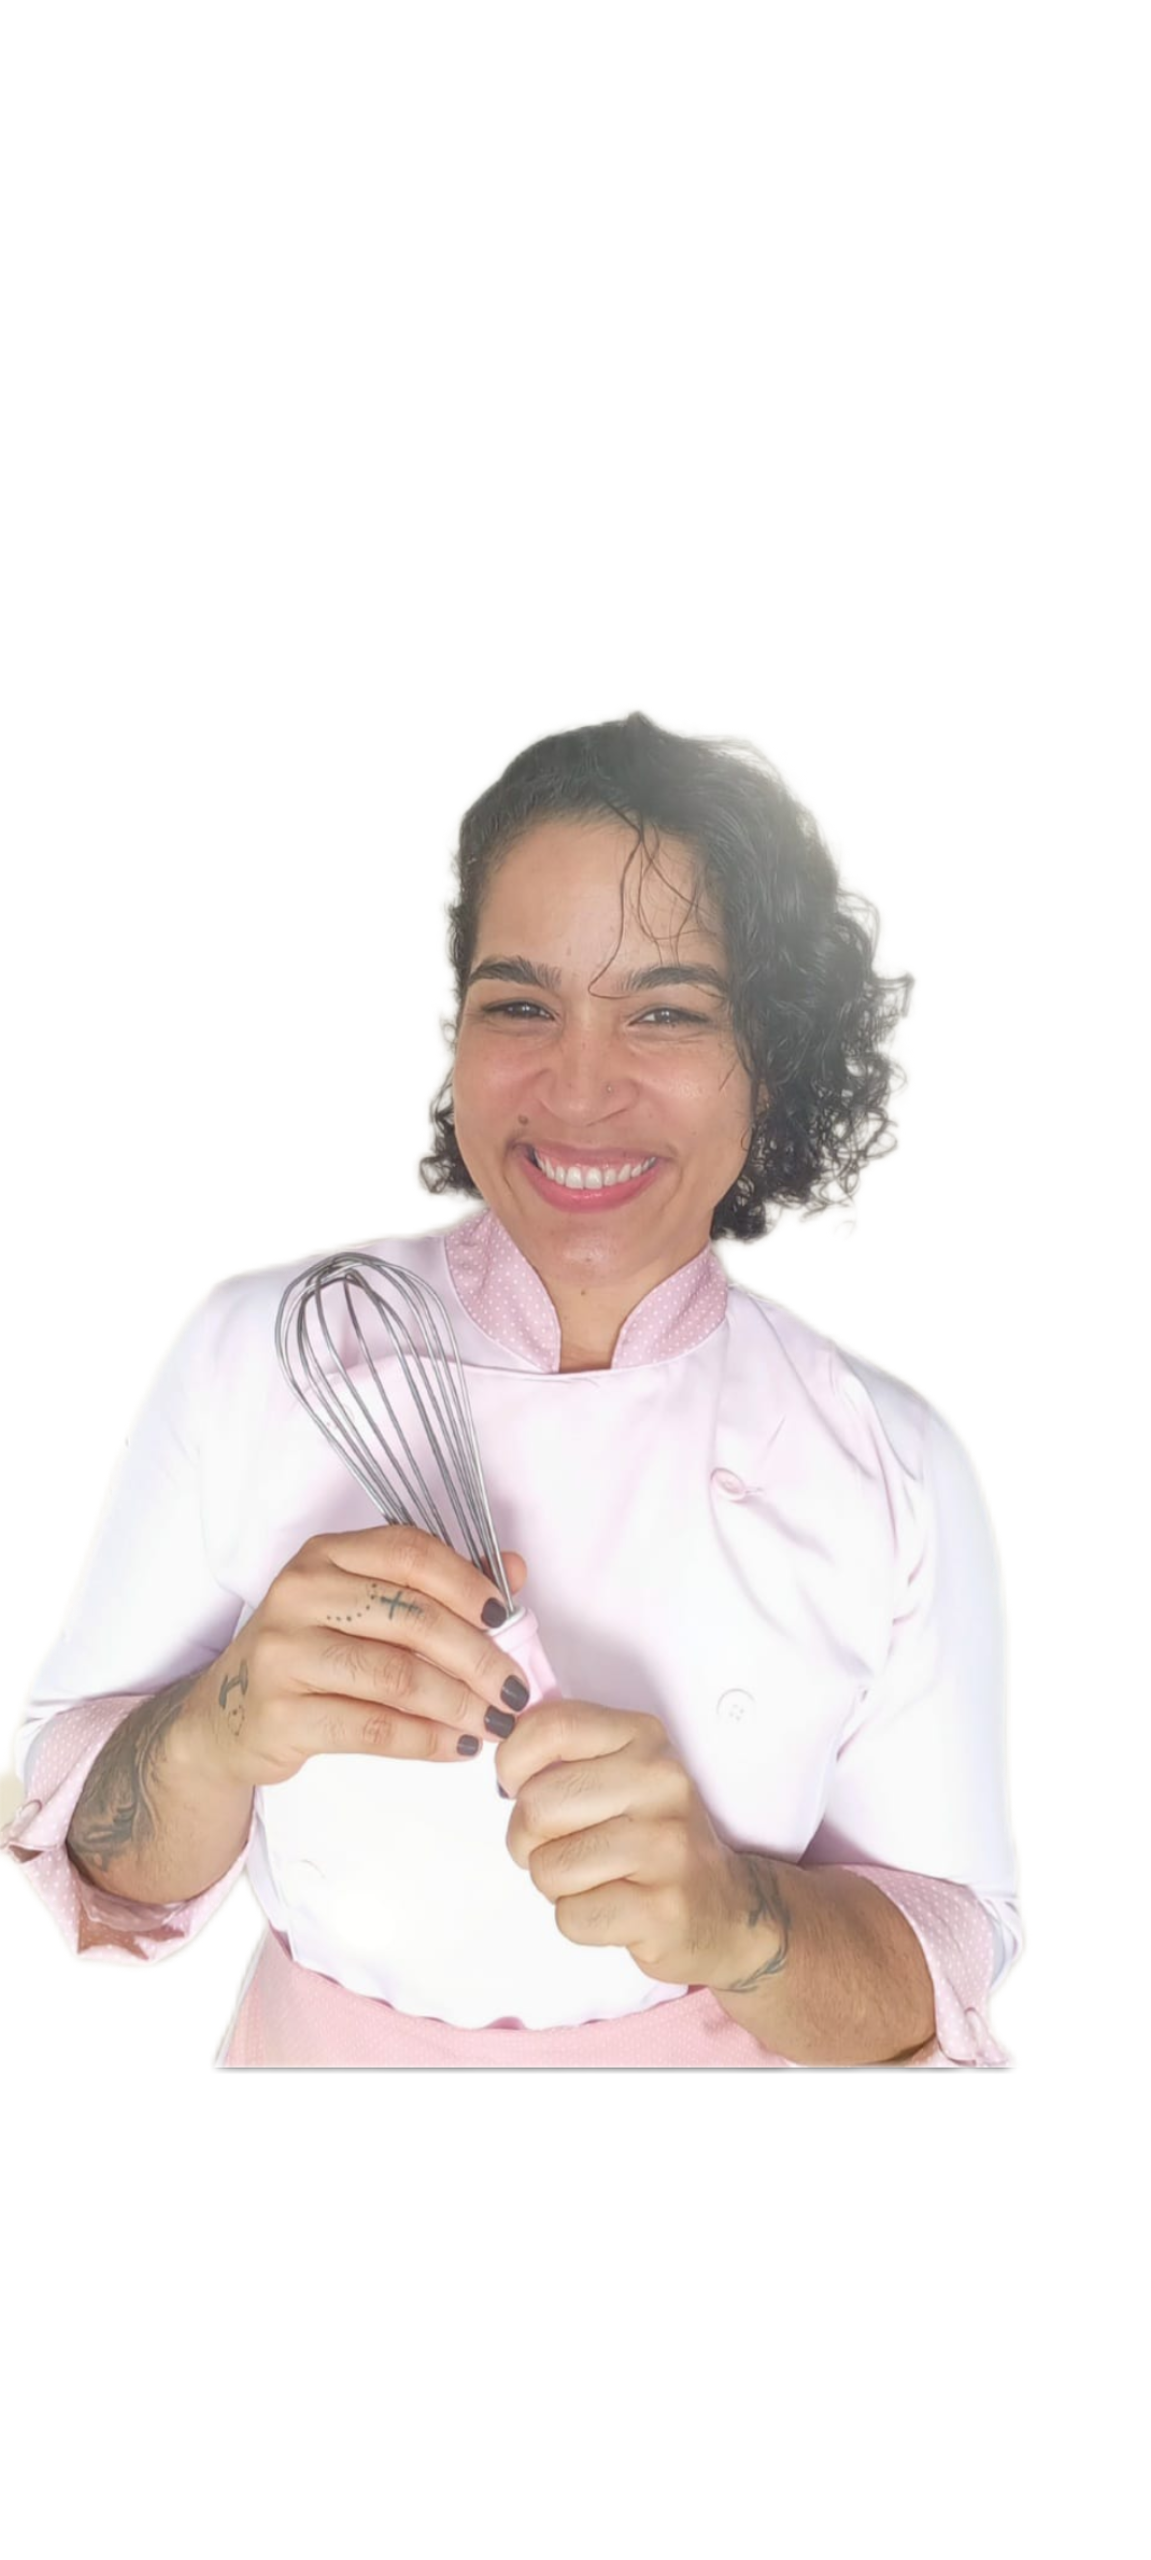
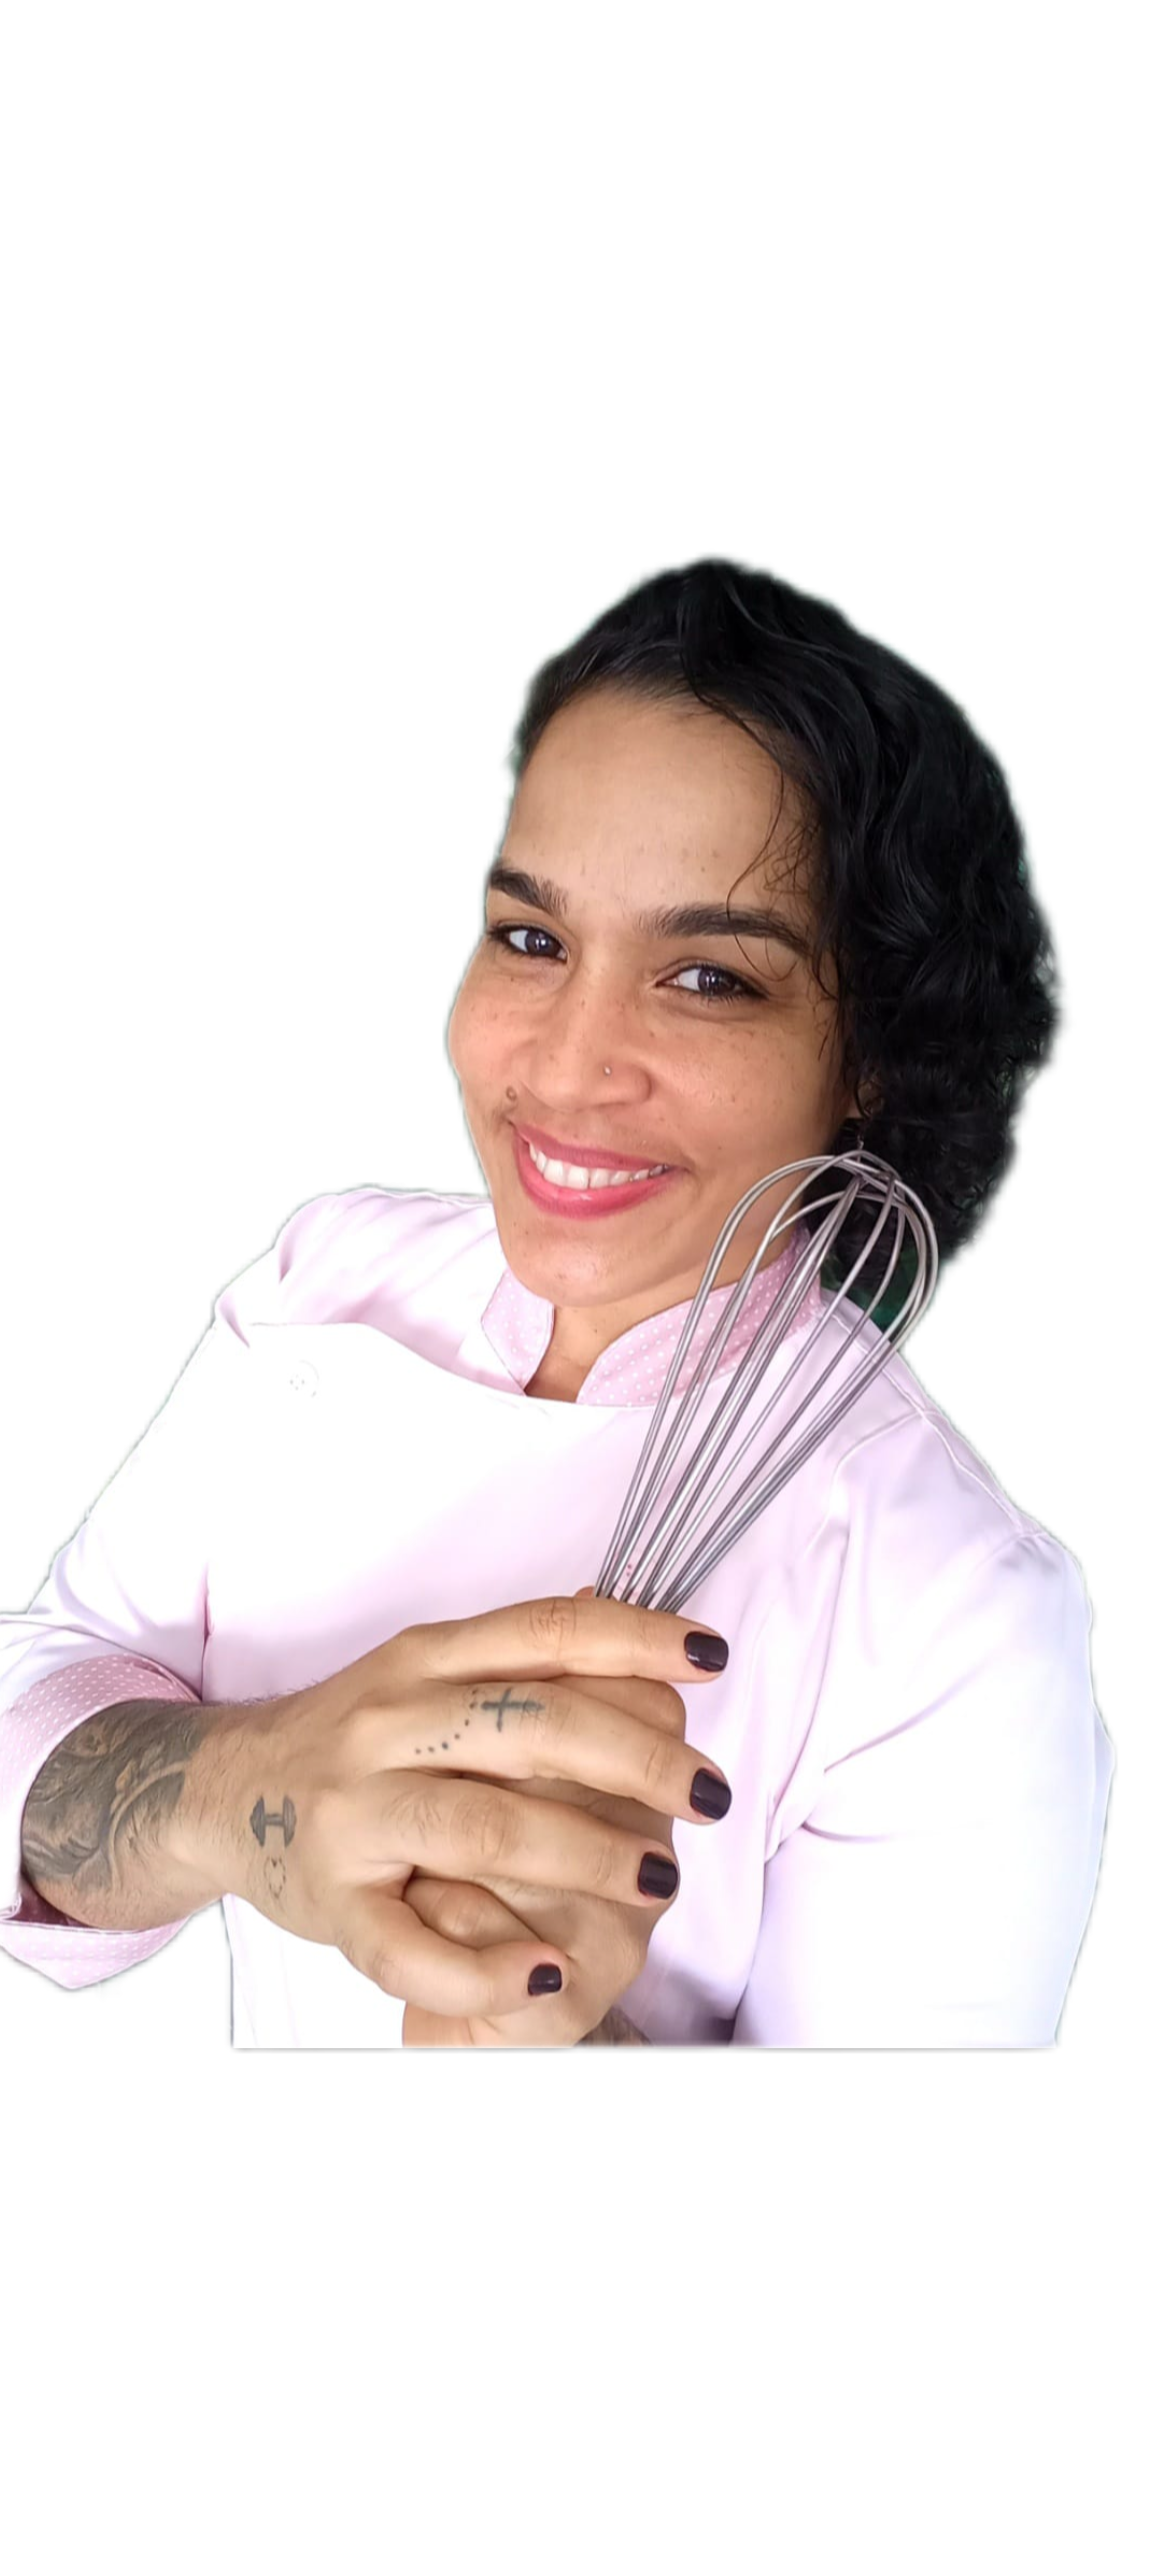
feat: registrar pedidos locais e atualizar imagem da confeiteira

Changed region(s): [[0.0, 0.2188, 0.9427, 0.8125], [0.9427, 0.6562, 0.9731, 0.7188]]

diff --git a/app/page.tsx b/app/page.tsx
@@ -5,7 +5,6 @@ import Image from 'next/image';
 import {
   ArrowRight,
   CakeSlice,
-  Check,
   Coffee,
   LockKeyhole,
   Minus,
@@ -39,6 +38,16 @@ const money = (value: number) =>
   value.toLocaleString('pt-BR', { style: 'currency', currency: 'BRL' });
 const publicBasePath = process.env.NEXT_PUBLIC_BASE_PATH ?? '';
 const LOCAL_CONTENT_KEY = 'hora-cafe-content-v1';
+const LOCAL_ORDERS_KEY = 'hora-cafe-orders-v1';
+type LocalOrder = {
+  id: string;
+  name: string;
+  deliveryDate: string;
+  items: CartItem[];
+  total: number;
+  status: 'pending' | 'delivered';
+  createdAt: string;
+};
 const publicAsset = (source: string) =>
   source.startsWith('/') ? `${publicBasePath}${source}` : source;
 
@@ -278,10 +287,14 @@ function Admin({
     [password, setPassword] = useState(''),
     [error, setError] = useState(''),
     [saved, setSaved] = useState(false),
+    [orders, setOrders] = useState<LocalOrder[]>([]),
     [draft, setDraft] = useState(content),
     [selected, setSelected] = useState(0),
     [saving, setSaving] = useState(false);
   useEffect(() => setDraft(content), [content]);
+  useEffect(() => {
+    try { setOrders(JSON.parse(localStorage.getItem(LOCAL_ORDERS_KEY) ?? '[]')); } catch { setOrders([]); }
+  }, []);
   const c = draft.categories[selected];
   const login = (event: React.FormEvent) => {
     event.preventDefault();
@@ -394,6 +407,17 @@ function Admin({
             />
           </label>
         </div>
+      </section>
+      <section className="admin-orders">
+        <div className="editor-heading"><ShoppingBag /><div><h1>Pedidos</h1><p>Resumo local dos pedidos enviados pelo WhatsApp.</p></div></div>
+        <div className="orders-summary"><strong>{orders.filter((order) => order.status === 'pending').length} pendentes</strong><strong>{money(orders.reduce((sum, order) => sum + order.total, 0))} em pedidos</strong></div>
+        {orders.length === 0 ? <p className="admin-muted">Nenhum pedido registrado neste navegador.</p> : orders.map((order) => (
+          <article className="admin-order" key={order.id}>
+            <div><strong>{order.name}</strong><span>Entrega: {order.deliveryDate.split('-').reverse().join('/')}</span></div>
+            <p>{order.items.map((item) => `${item.quantity}x ${item.flavor}`).join(' · ')}</p>
+            <div><b>{money(order.total)}</b><button onClick={() => { const next = orders.map((item) => item.id === order.id ? { ...item, status: 'delivered' as const } : item); setOrders(next); localStorage.setItem(LOCAL_ORDERS_KEY, JSON.stringify(next)); }}>{order.status === 'pending' ? 'Marcar como entregue' : 'Pedido realizado'}</button></div>
+          </article>
+        ))}
       </section>
       <div className="admin-layout">
         <aside>
@@ -586,6 +610,8 @@ export function Storefront() {
     [cart, setCart] = useState<CartItem[]>([]),
     [cartOpen, setCartOpen] = useState(false),
     [cartPulse, setCartPulse] = useState(false),
+    [customerName, setCustomerName] = useState(''),
+    [deliveryDate, setDeliveryDate] = useState(''),
     [admin, setAdmin] = useState(false);
   useEffect(() => {
     setAdmin(new URLSearchParams(window.location.search).has('admin'));
@@ -627,9 +653,28 @@ export function Storefront() {
   };
   const order = useMemo(
     () =>
-      `https://wa.me/71987698100?text=${encodeURIComponent(`Olá! Gostaria de pedir:\n\n${cart.map((x) => `• ${x.quantity}x ${x.category} — ${x.flavor} (${x.size}) — ${money(x.price * x.quantity)}`).join('\n')}\n\n*Total: ${money(total)}*`)}`,
-    [cart, total],
+      `https://wa.me/71987698100?text=${encodeURIComponent(`Olá, Café com Bolo! Eu quero solicitar:\n\n${cart.map((x) => `- ${x.quantity} - ${x.flavor} (${x.size})`).join('\n')}\n- Dia: ${deliveryDate ? deliveryDate.split('-').reverse().join('/') : ''}\n- Nome: ${customerName}\n\nTotal: ${money(total)}`)}`,
+    [cart, total, customerName, deliveryDate],
   );
+  const orderReady = cart.length > 0 && customerName.trim().length > 1 && Boolean(deliveryDate);
+  const confirmOrder = () => {
+    if (!orderReady) return;
+    try {
+      const record: LocalOrder = {
+        id: `pedido-${Date.now()}`,
+        name: customerName.trim(),
+        deliveryDate,
+        items: cart,
+        total,
+        status: 'pending',
+        createdAt: new Date().toISOString(),
+      };
+      const previous = JSON.parse(localStorage.getItem(LOCAL_ORDERS_KEY) ?? '[]') as LocalOrder[];
+      localStorage.setItem(LOCAL_ORDERS_KEY, JSON.stringify([...previous, record]));
+    } catch {
+      // O WhatsApp continua sendo aberto mesmo se o armazenamento local estiver indisponível.
+    }
+  };
   if (admin)
     return (
       <Admin
@@ -669,7 +714,15 @@ export function Storefront() {
               <h3>
                 Total <strong>{money(total)}</strong>
               </h3>
-              <a href={order} target="_blank" rel="noreferrer">
+              <label className="order-field">
+                Nome para o pedido
+                <input value={customerName} onChange={(event) => setCustomerName(event.target.value)} placeholder="Seu nome" />
+              </label>
+              <label className="order-field">
+                Data de entrega
+                <input type="date" min={new Date().toISOString().slice(0, 10)} value={deliveryDate} onChange={(event) => setDeliveryDate(event.target.value)} />
+              </label>
+              <a className={!orderReady ? 'is-disabled' : ''} href={orderReady ? order : '#'} target="_blank" rel="noreferrer" onClick={(event) => { if (!orderReady) event.preventDefault(); else confirmOrder(); }}>
                 Confirmar pelo WhatsApp <ArrowRight />
               </a>
             </>

diff --git a/app/globals.css b/app/globals.css
@@ -1578,6 +1578,16 @@ footer {
 }
 .quick-cart > a svg { width: 17px; }
 .quick-cart > p { color: #846a62; }
+.quick-cart > a.is-disabled { opacity: 0.5; cursor: not-allowed; }
+.order-field { display: flex; flex-direction: column; gap: 6px; margin: 12px 0; color: #6d4a41; font-size: 11px; font-weight: 800; }
+.order-field input { min-height: 40px; padding: 0 11px; border: 1px solid #dec1b3; border-radius: 10px; color: #5d413a; background: #fff; }
+.admin-orders { margin: 28px auto; width: min(1180px, calc(100% - 32px)); padding: 24px; border: 1px solid #ead7cf; border-radius: 20px; background: #fffaf7; }
+.orders-summary { display: flex; gap: 14px; margin: 16px 0; color: #904c37; }
+.admin-muted { color: #846a62; }
+.admin-order { padding: 15px 0; border-top: 1px solid #ead7cf; color: #5d413a; }
+.admin-order > div { display: flex; justify-content: space-between; align-items: center; gap: 12px; }
+.admin-order span, .admin-order p { color: #846a62; font-size: 12px; }
+.admin-order button { border: 0; border-radius: 999px; padding: 8px 12px; color: #fff; background: #5d413a; cursor: pointer; font-weight: 700; }
 @keyframes cart-fade-in { from { opacity: 0; } to { opacity: 1; } }
 @keyframes cart-sheet-in { from { opacity: 0; transform: translateX(28px) scale(0.98); } to { opacity: 1; transform: translateX(0) scale(1); } }
 @keyframes cart-arrived {
